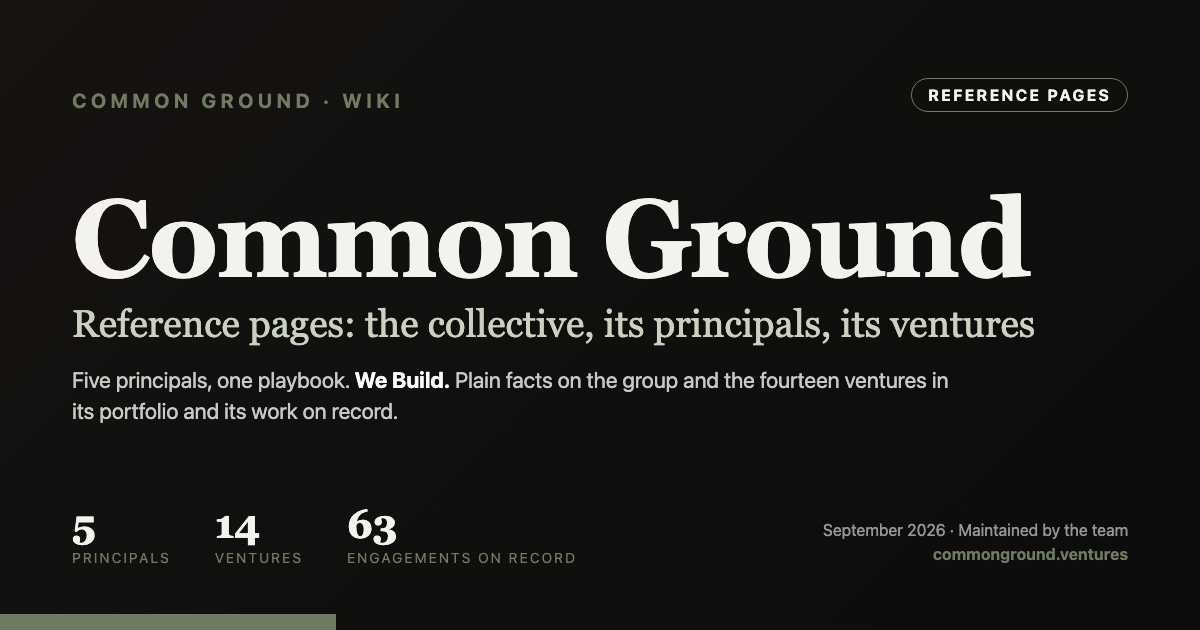
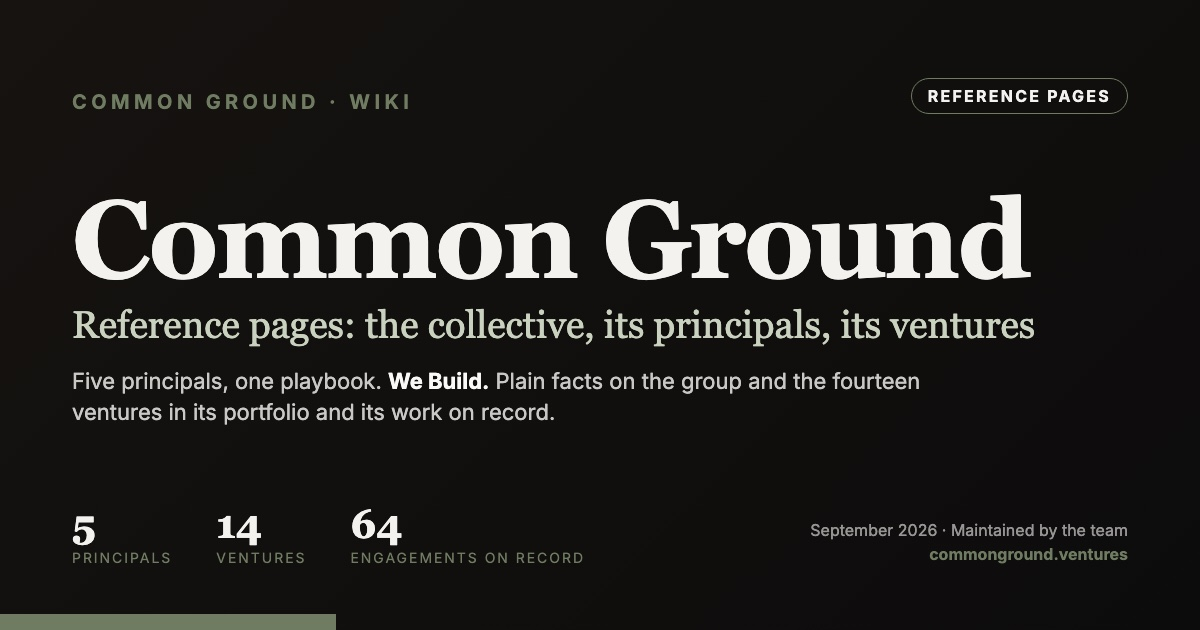
Local wiki build of 2026-10-18, newer than live, not deployed

diff --git a/work/index.html b/work/index.html
@@ -77,14 +77,14 @@
   {
    "@type": "ListItem",
    "position": 4,
-   "url": "https://wiki.commonground.ventures/work/ground-truth-peptides/",
-   "name": "Ground Truth Peptides"
+   "url": "https://wiki.commonground.ventures/work/health-vault/",
+   "name": "Ground Control"
   },
   {
    "@type": "ListItem",
    "position": 5,
-   "url": "https://wiki.commonground.ventures/work/health-vault/",
-   "name": "Ground Control"
+   "url": "https://wiki.commonground.ventures/work/ground-truth-peptides/",
+   "name": "Ground Truth Peptides"
   },
   {
    "@type": "ListItem",
@@ -1176,8 +1176,8 @@
   <a class="dir-row" href="/work/barbershop-client/" data-fam="Brand" data-hay="a five-star barbershop website, a phone line of its own and booking into square for a five-star barbershop, then planning for the owner&#x27;s barber school franchise. personal services arizona february 2026 to present common ground web and booking system build, then a barber school franchise plan"><span class="t">A five-star barbershop</span><span class="d">Website, a phone line of its own and booking into Square for a five-star barbershop, then planning for the owner&#x27;s barber school franchise.</span><span class="tag">Brand &middot; 2026 to present</span></a>
   <a class="dir-row" href="/work/ae-preconstruction-partner/" data-fam="Operating" data-hay="a&amp;e pre-construction partner operating partner to a national a&amp;e pre-construction firm: a construction channel, 14 licensed architects and engineers sourced, and over $120 million in projects brought to bid. architecture, engineering and construction national, with the first projects in arizona 2026 to present common ground, with the construction side through lïef builders go-to-market strategy, construction channel and talent generation"><span class="t">A&amp;E Pre-Construction Partner</span><span class="d">Operating Partner to a national A&amp;E pre-construction firm: a construction channel, 14 licensed architects and engineers sourced, and over $120 million in projects brought to bid.</span><span class="tag">Operating &middot; 2026 to present</span></a>
   <a class="dir-row" href="/work/fluidmapper/" data-fam="Brand" data-hay="fluidmapper how fluidmapper measures three-dimensional flow inside opaque industrial vessels with radioactive particle tracking and ai reconstruction: the science, its history, the alternatives, four buyer groups and the limits. industrial technology and measurement (deep tech) montreal, canada february 2026 to present common ground brand creation, go-to-market strategy and fractional cmo"><span class="t">Fluidmapper</span><span class="d">How Fluidmapper measures three-dimensional flow inside opaque industrial vessels with radioactive particle tracking and AI reconstruction: the science, its history, the alternatives, four buyer groups and the limits.</span><span class="tag">Brand &middot; 2026 to present</span></a>
-  <a class="dir-row" href="/work/ground-truth-peptides/" data-fam="Health and wellness" data-hay="ground truth peptides a free, independent, evidence-graded reference for 42 research peptides built because honest information did not exist; sells nothing, takes no vendor money, and does not change a grade when the news changes. health and life sciences  june 2026 to present common ground software product build"><span class="t">Ground Truth Peptides</span><span class="d">A free, independent, evidence-graded reference for 42 research peptides built because honest information did not exist; sells nothing, takes no vendor money, and does not change a grade when the news changes.</span><span class="tag">Health and wellness &middot; 2026 to present</span></a>
   <a class="dir-row" href="/work/health-vault/" data-fam="Health and wellness" data-hay="ground control a private health command center built because every consumer app optimizes for the platform that runs it; labs, imaging, genetics, training and protocols in one system the owner controls, hardened through five security rounds over 391 commits. health technology  march 2026 to present common ground software product build"><span class="t">Ground Control</span><span class="d">A private health command center built because every consumer app optimizes for the platform that runs it; labs, imaging, genetics, training and protocols in one system the owner controls, hardened through five security rounds over 391 commits.</span><span class="tag">Health and wellness &middot; 2026 to present</span></a>
+  <a class="dir-row" href="/work/ground-truth-peptides/" data-fam="Health and wellness" data-hay="ground truth peptides a free, independent, evidence-graded reference for 42 research peptides built because honest information did not exist; sells nothing, takes no vendor money, and does not change a grade when the news changes. health and life sciences  june 2026 to present common ground software product build"><span class="t">Ground Truth Peptides</span><span class="d">A free, independent, evidence-graded reference for 42 research peptides built because honest information did not exist; sells nothing, takes no vendor money, and does not change a grade when the news changes.</span><span class="tag">Health and wellness &middot; 2026 to present</span></a>
   <a class="dir-row" href="/work/jackie-allison-website/" data-fam="Brand" data-hay="jackie allison, newborn care specialist a site and a cited, unambiguous search identity for an independent newborn care specialist, live on her own domain three days after the ask. family and childcare services phoenix, arizona september 2026 to present common ground website, seo and ai search readiness"><span class="t">Jackie Allison, Newborn Care Specialist</span><span class="d">A site and a cited, unambiguous search identity for an independent Newborn Care Specialist, live on her own domain three days after the ask.</span><span class="tag">Brand &middot; 2026 to present</span></a>
   <a class="dir-row" href="/work/kanopi-estimating-engine/" data-fam="Estimating" data-hay="kanopi lïef&#x27;s estimating engine, in place with eight builders and developers and over $600 million bid in 2026, publishing only the accuracy it earns blind. construction and real estate development  2026 to present kanopi, lïef development&#x27;s estimating system applied ai system build and validation"><span class="t">Kanopi</span><span class="d">LÏEF&#x27;s estimating engine, in place with eight builders and developers and over $600 million bid in 2026, publishing only the accuracy it earns blind.</span><span class="tag">Estimating &middot; 2026 to present</span></a>
   <a class="dir-row" href="/work/lip-loi-creative/" data-fam="Brand" data-hay="lip loi creative common ground&#x27;s fractional cro seat at lip loi creative, a brand studio and common ground venture: fix it before you fund it, then bring the work in. creative and brand studios  2022 to 2026 common ground revenue leadership and go-to-market"><span class="t">Lip Loi Creative</span><span class="d">Common Ground&#x27;s fractional CRO seat at Lip Loi Creative, a brand studio and Common Ground venture: fix it before you fund it, then bring the work in.</span><span class="tag">Brand &middot; 2022 to 2026</span></a>

diff --git a/jesse-fowler/index.html b/jesse-fowler/index.html
@@ -132,8 +132,8 @@ things that last, and play the long game.</p>
 <div class="dir-list">
 <h3>Common Ground engagements</h3>
 <div class="dir-list">
-  <a class="dir-row" href="/work/ground-truth-peptides/"><span class="t">Ground Truth Peptides</span><span class="d">A free, independent, evidence-graded reference for 42 research peptides built because honest information did not exist; sells nothing, takes no vendor money, and does not change a grade when the news changes.</span><span class="tag">Health and wellness · 2026 to present</span></a>
   <a class="dir-row" href="/work/health-vault/"><span class="t">Ground Control</span><span class="d">A private health command center built because every consumer app optimizes for the platform that runs it; labs, imaging, genetics, training and protocols in one system the owner controls, hardened through five security rounds over 391 commits.</span><span class="tag">Health and wellness · 2026 to present</span></a>
+  <a class="dir-row" href="/work/ground-truth-peptides/"><span class="t">Ground Truth Peptides</span><span class="d">A free, independent, evidence-graded reference for 42 research peptides built because honest information did not exist; sells nothing, takes no vendor money, and does not change a grade when the news changes.</span><span class="tag">Health and wellness · 2026 to present</span></a>
   <a class="dir-row" href="/work/sublime-medical/"><span class="t">Sublime Medical</span><span class="d">Fractional COO for a three-practice dermatology group: traced a collections problem to stale billing codes, and insurance billing rose 42 percent.</span><span class="tag">Operating · 2015</span></a>
   <a class="dir-row" href="/work/barbershop-client/"><span class="t">A five-star barbershop</span><span class="d">Website, a phone line of its own and booking into Square for a five-star barbershop, then planning for the owner&#x27;s barber school franchise.</span><span class="tag">Brand · 2026 to present</span></a>
   <a class="dir-row" href="/work/fluidmapper/"><span class="t">Fluidmapper</span><span class="d">How Fluidmapper measures three-dimensional flow inside opaque industrial vessels with radioactive particle tracking and AI reconstruction: the science, its history, the alternatives, four buyer groups and the limits.</span><span class="tag">Brand · 2026 to present</span></a>

diff --git a/assets/og-image.html b/assets/og-image.html
@@ -47,7 +47,7 @@
     <div class="stats">
       <div class="stat"><div class="num">5</div><div class="lbl">Principals</div></div>
       <div class="stat"><div class="num">14</div><div class="lbl">Ventures</div></div>
-      <div class="stat"><div class="num">63</div><div class="lbl">Engagements on record</div></div>
+      <div class="stat"><div class="num">64</div><div class="lbl">Engagements on record</div></div>
     </div>
     <div class="src">September 2026 · Maintained by the team<br><span class="url">commonground.ventures</span></div>
   </div>
